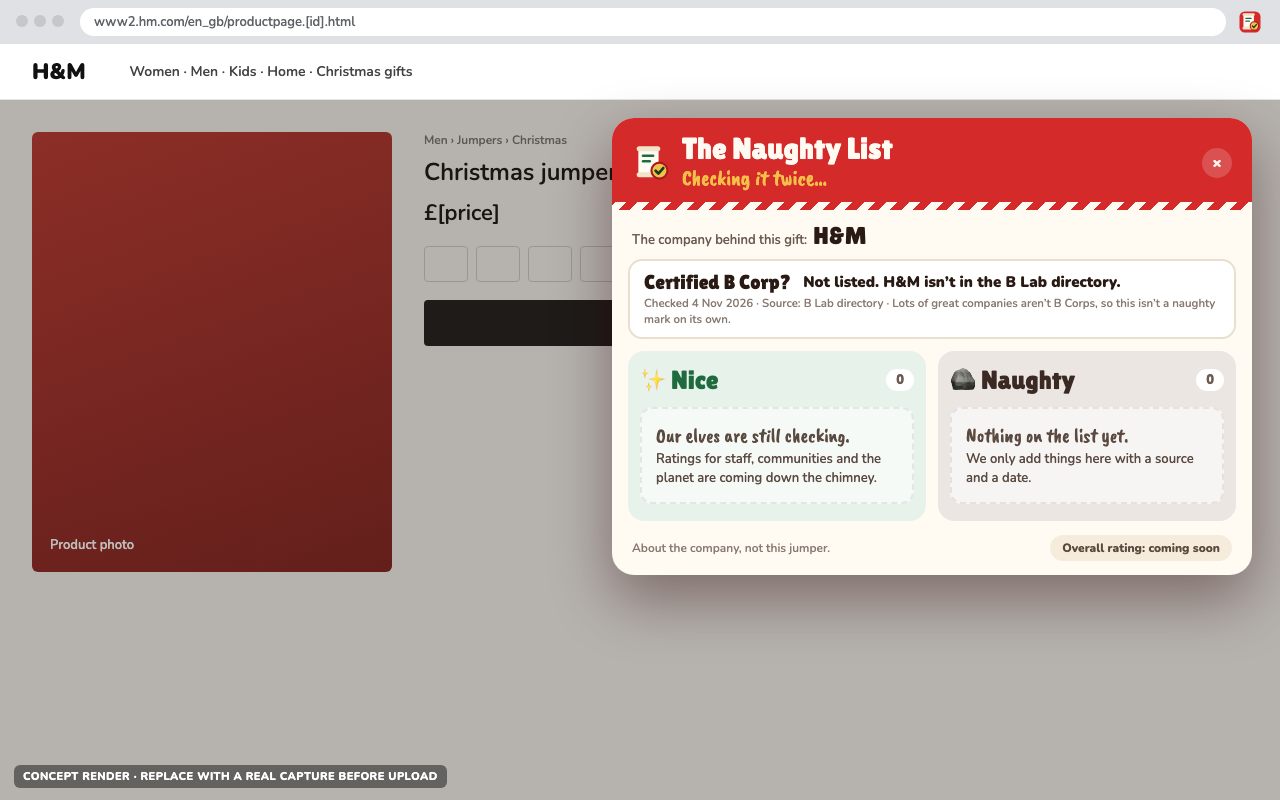
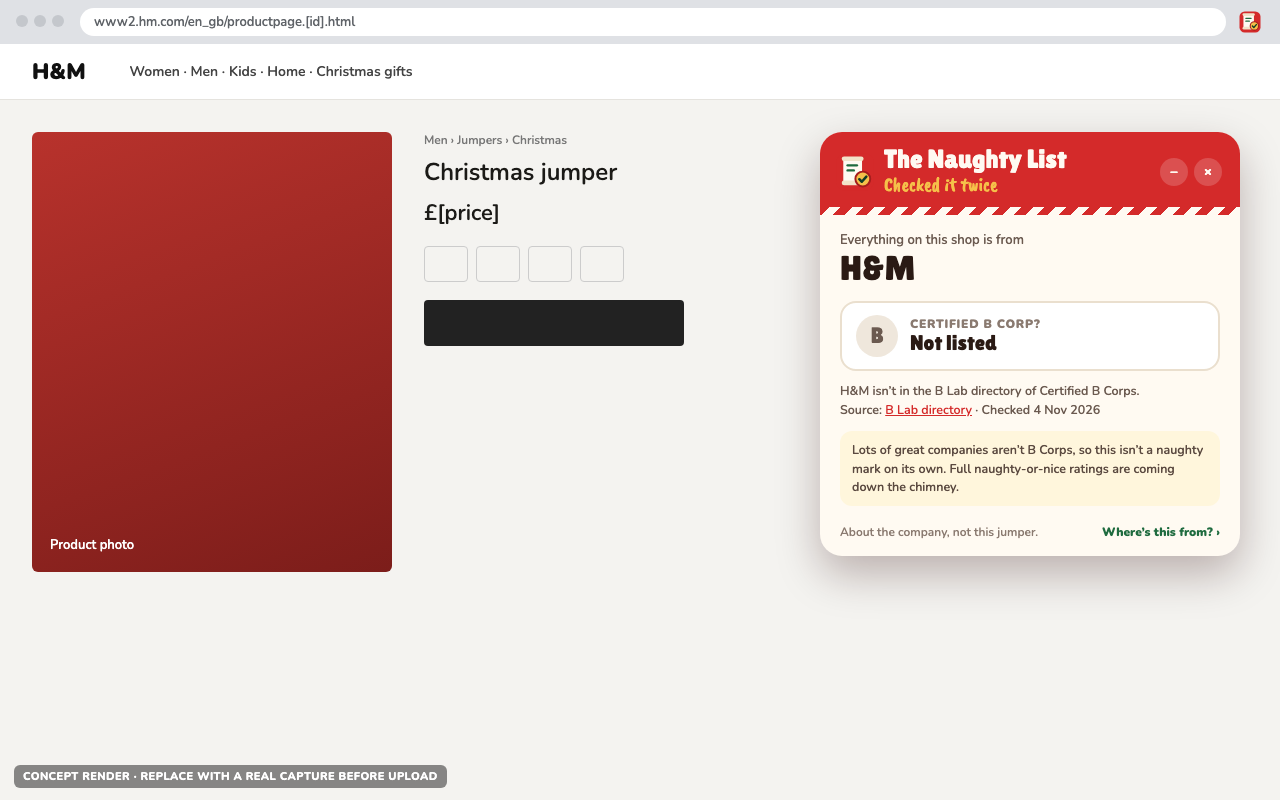
Launch assets: redraw H&M concept screenshots as a brand badge (card 158)
Lawrence's AGENTS.md update (bcfeaab) records the card 158 rule: single-brand
shops get a brand badge, not a Nice/Naughty split. Renders, overlay copy and
storyboard now follow that, using H&M's real B Corp result.

diff --git a/publishing/launch/src/overlay-screens.html b/publishing/launch/src/overlay-screens.html
@@ -1,7 +1,9 @@
 <!doctype html><html><head><meta charset="utf-8"><link rel="stylesheet" href="tiles.css">
-<!-- Concept render of the two-column Nice / Naughty overlay (Samira, 4 Nov). Lawrence owns the real UX; replace these with real captures once it exists.
-     Variants: ?v=1 overlay open (lead screenshot) · ?v=2 one item opened to show its source.
-     B Corp strip uses the real registry result (branch hm-registry, 4 Nov). Columns show empty states until scoring card 157 supplies findings. -->
+<!-- Concept render of the H&M brand badge. Card 158 (Lawrence, 4 Nov): single-brand shops like H&M get a brand badge, not a Nice/Naughty split,
+     because every product shares one company's evidence. The split is for multi-brand shops, later.
+     Lawrence owns the real UX; surface, trigger and placement are still open on card 158. Replace with real captures once it exists.
+     Variants: ?v=1 badge on the product page (lead screenshot) · ?v=2 badge opened to show where the result came from.
+     B Corp result is real: H&M not in the B Lab directory, checked 4 Nov 2026 (registry entry on branch hm-registry). -->
 <style>
 html,body{overflow:hidden}
 body{background:#f4f3f0;color:#1b1a17;font-family:"Nunito",sans-serif;font-weight:600}
@@ -11,48 +13,40 @@ body{background:#f4f3f0;color:#1b1a17;font-family:"Nunito",sans-serif;font-weigh
 .ext{width:28px;height:28px}
 .bar{height:56px;background:#fff;border-bottom:1px solid #e5e3de;display:flex;align-items:center;padding:0 32px;gap:28px;font-size:14px;color:#444}
 .bar b{font-size:22px;color:#111;margin-right:16px}
-.page{display:grid;grid-template-columns:360px 1fr;gap:32px;padding:32px}
-.img{height:440px;border-radius:6px;background:linear-gradient(160deg,#b8322c,#7c1d1a);display:flex;align-items:flex-end;padding:18px;color:#fff;font-size:13px;opacity:.95}
+.page{display:grid;grid-template-columns:360px 340px;gap:32px;padding:32px}
+.img{height:440px;border-radius:6px;background:linear-gradient(160deg,#b8322c,#7c1d1a);display:flex;align-items:flex-end;padding:18px;color:#fff;font-size:13px}
 .crumb{font-size:12px;color:#777;margin-bottom:8px}
 h2{font:600 24px "Nunito",sans-serif;margin-bottom:6px}
 .price{font-size:22px;margin:10px 0 18px}
 .sz{display:flex;gap:8px;margin-bottom:18px}.sz span{width:44px;height:36px;border:1px solid #ccc;border-radius:4px}
 .add{width:260px;height:46px;background:#222;border-radius:4px}
-.dim{position:absolute;inset:100px 0 0 0;background:rgba(20,10,5,.28)}
 
-.ol{position:absolute;top:118px;right:28px;width:640px;background:var(--snow);border-radius:22px;box-shadow:0 24px 60px rgba(40,0,0,.4);overflow:hidden}
-.hd{background:var(--red);color:var(--snow);padding:16px 20px 18px;display:flex;align-items:center;gap:12px;position:relative}
-.hd img{width:54px;height:54px;margin:-8px}
-.hd .t{font:30px "Lilita One",sans-serif;line-height:1}
-.hd .s{font:22px "Caveat Brush",cursive;color:var(--gold)}
-.hd .x{margin-left:auto;width:30px;height:30px;border-radius:50%;background:rgba(255,255,255,.18);display:grid;place-items:center;font-weight:900}
+/* the badge sits in the empty space beside the product details: it never covers price, sizes or add-to-bag */
+.badge{position:absolute;top:132px;left:820px;width:420px;background:var(--snow);border-radius:22px;box-shadow:0 18px 44px rgba(40,0,0,.28);overflow:hidden}
+.hd{background:var(--red);color:var(--snow);padding:14px 18px 18px;display:flex;align-items:center;gap:12px;position:relative}
+.hd img{width:50px;height:50px;margin:-8px}
+.hd .t{font:26px "Lilita One",sans-serif;line-height:1}
+.hd .s{font:20px "Caveat Brush",cursive;color:var(--gold)}
+.hd .x{margin-left:auto;display:flex;gap:6px}
+.hd .x i{width:28px;height:28px;border-radius:50%;background:rgba(255,255,255,.18);display:grid;place-items:center;font-style:normal;font-weight:900;font-size:14px}
 .hd::after{content:"";position:absolute;left:0;right:0;bottom:0;height:8px;background:repeating-linear-gradient(-45deg,var(--snow) 0 8px,var(--red) 8px 16px)}
-.brand{padding:12px 20px 0;font-size:13px;color:#6b5a50}
-.brand b{font:24px "Lilita One",sans-serif;color:#2a1a14;margin-left:6px}
-.bc{margin:10px 16px 0;background:#fff;border:2px solid #eadfce;border-radius:14px;padding:10px 14px;display:grid;grid-template-columns:auto 1fr;gap:2px 12px;align-items:center}
-.bc .q{font:20px "Lilita One",sans-serif;color:#2a1a14}
-.bc .a{font-weight:900;font-size:15px;color:#2a1a14}
-.bc .m{grid-column:1/-1;font-size:11.5px;color:#8a7a70}
-.empty{background:rgba(255,255,255,.6);border:2px dashed rgba(0,0,0,.08);border-radius:12px;padding:14px;font-size:13px;color:#5b4a40;line-height:1.45}
-.empty b{display:block;font:20px "Caveat Brush",cursive;color:inherit;margin-bottom:2px}
-.cols{display:grid;grid-template-columns:1fr 1fr;gap:12px;padding:12px 16px 4px}
-.col{border-radius:16px;padding:12px;min-height:170px}
-.nice{background:#e7f3ea}
-.naughty{background:#ece6e3}
-.ch{display:flex;align-items:center;gap:8px;font:26px "Lilita One",sans-serif;margin-bottom:10px}
-.nice .ch{color:var(--green)} .naughty .ch{color:#3b2a24}
-.ch .n{margin-left:auto;font:900 13px "Nunito",sans-serif;background:#fff;border-radius:99px;padding:2px 10px;color:#6b5a50}
-.it{background:#fff;border-radius:12px;padding:10px 12px;margin-bottom:8px;box-shadow:0 1px 0 rgba(0,0,0,.05)}
-.it .k{font-size:11px;font-weight:900;letter-spacing:.06em;text-transform:uppercase;color:#8a7a70}
-.it .f{font-size:14px;font-weight:800;margin:2px 0}
-.it .src{font-size:11.5px;color:#8a7a70}
-.ph{background:#fff1c2;color:#7a5a00;border-radius:4px;padding:0 4px}
-.it.open{outline:3px solid var(--gold)}
-.it .more{margin-top:8px;padding-top:8px;border-top:1px dashed #e3d8cc;font-size:12px;color:#5b4a40;line-height:1.5}
-.it .more u{color:var(--red)}
-.ft{display:flex;justify-content:space-between;align-items:center;padding:10px 20px 14px;font-size:12px;color:#8a7a70}
-.ft .v{background:var(--cream,#f6ecdc);border-radius:99px;padding:5px 12px;color:#5b4a40;font-weight:800}
+.body{padding:16px 20px 6px}
+.co{font-size:13px;color:#6b5a50}
+.co b{display:block;font:34px "Lilita One",sans-serif;color:#2a1a14;line-height:1.05;margin-top:2px}
+.state{margin-top:14px;display:flex;align-items:center;gap:12px;background:#fff;border:2px solid #eadfce;border-radius:16px;padding:12px 14px}
+.state .ic{flex:none;width:42px;height:42px;border-radius:50%;background:#efe7dc;display:grid;place-items:center;font:22px "Lilita One",sans-serif;color:#6b5a50}
+.state .q{font-size:12px;font-weight:900;letter-spacing:.06em;text-transform:uppercase;color:#8a7a70}
+.state .a{font:21px "Lilita One",sans-serif;color:#2a1a14;line-height:1.1}
+.meta{margin-top:10px;font-size:12.5px;color:#6b5a50;line-height:1.55}
+.meta u{color:var(--red)}
+.note{margin:12px 0 0;padding:10px 12px;background:#fff6dc;border-radius:12px;font-size:12.5px;color:#5b4a40;line-height:1.45}
+.more{margin-top:12px;padding-top:12px;border-top:2px dashed #eadfce;font-size:12.5px;color:#5b4a40;line-height:1.55;display:none}
+.more b{font:20px "Caveat Brush",cursive;color:var(--green);display:block}
+.ft{display:flex;justify-content:space-between;align-items:center;padding:12px 20px 16px;font-size:12px;color:#8a7a70}
+.ft a{color:var(--green);font-weight:900;text-decoration:none}
 .tag{position:absolute;left:14px;bottom:12px;font:800 11px "Nunito",sans-serif;color:#fff;background:rgba(0,0,0,.45);padding:4px 9px;border-radius:6px;letter-spacing:.04em}
+body.v2 .more{display:block}
+body.v2 .badge{top:118px}
 </style></head><body>
 <div class="chrome"><span class="dots"><i></i><i></i><i></i></span><div class="url">www2.hm.com/en_gb/productpage.[id].html</div><img class="ext" src="icon-festive.svg"></div>
 <div class="bar"><b>H&amp;M</b> Women · Men · Kids · Home · Christmas gifts</div>
@@ -60,30 +54,18 @@ h2{font:600 24px "Nunito",sans-serif;margin-bottom:6px}
   <div class="img">Product photo</div>
   <div><div class="crumb">Men › Jumpers › Christmas</div><h2>Christmas jumper</h2><div class="price">£[price]</div><div class="sz"><span></span><span></span><span></span><span></span></div><div class="add"></div></div>
 </div>
-<div class="dim"></div>
 
-<div class="ol">
-  <div class="hd"><img src="icon-festive.svg"><div><div class="t">The Naughty List</div><div class="s">Checking it twice…</div></div><div class="x">×</div></div>
-  <div class="brand">The company behind this gift:<b>H&amp;M</b></div>
-  <div class="bc" id="bc"><span class="q">Certified B Corp?</span><span class="a">Not listed. H&amp;M isn’t in the B Lab directory.</span><span class="m">Checked 4 Nov 2026 · Source: B Lab directory · Lots of great companies aren’t B Corps, so this isn’t a naughty mark on its own.</span></div>
-  <div class="cols">
-    <div class="col nice">
-      <div class="ch">✨ Nice <span class="n">0</span></div>
-      <div class="empty"><b>Our elves are still checking.</b>Ratings for staff, communities and the planet are coming down the chimney.</div>
-    </div>
-    <div class="col naughty">
-      <div class="ch">🪨 Naughty <span class="n">0</span></div>
-      <div class="empty"><b>Nothing on the list yet.</b>We only add things here with a source and a date.</div>
-    </div>
+<div class="badge">
+  <div class="hd"><img src="icon-festive.svg"><div><div class="t">The Naughty List</div><div class="s">Checked it twice</div></div><div class="x"><i>–</i><i>×</i></div></div>
+  <div class="body">
+    <div class="co">Everything on this shop is from<b>H&amp;M</b></div>
+    <div class="state"><div class="ic">B</div><div><div class="q">Certified B Corp?</div><div class="a">Not listed</div></div></div>
+    <div class="meta">H&amp;M isn’t in the B Lab directory of Certified B Corps.<br>Source: <u>B Lab directory</u> · Checked 4 Nov 2026</div>
+    <div class="note">Lots of great companies aren’t B Corps, so this isn’t a naughty mark on its own. Full naughty-or-nice ratings are coming down the chimney.</div>
+    <div class="more"><b>Where this came from</b>We searched the B Lab directory for “H&amp;M”, “H&amp;M Group” and “Hennes &amp; Mauritz” on 4 Nov 2026 and found no listing. We’ll check again by 4 Dec 2026.<br><u style="color:var(--red)">bcorporation.net/find-a-b-corp</u></div>
   </div>
-  <div class="ft"><span>About the company, not this jumper.</span><span class="v">Overall rating: coming soon</span></div>
+  <div class="ft"><span>About the company, not this jumper.</span><a>Where’s this from? ›</a></div>
 </div>
 <div class="tag">CONCEPT RENDER · REPLACE WITH A REAL CAPTURE BEFORE UPLOAD</div>
-<script>
-if(new URLSearchParams(location.search).get('v')==='2'){
-  const b=document.getElementById('bc');b.style.outline='3px solid var(--gold)';
-  b.insertAdjacentHTML('beforeend','<div class="m" style="border-top:1px dashed #e3d8cc;padding-top:8px;margin-top:6px;color:#5b4a40;font-size:12.5px;line-height:1.55"><b>Where this came from</b><br>We searched the B Lab directory for “H&amp;M”, “H&amp;M Group” and “Hennes &amp; Mauritz” on 4 Nov 2026: no listing.<br><u style="color:var(--red)">bcorporation.net/find-a-b-corp</u> · We’ll check again by 4 Dec 2026.</div>');
-  document.querySelector('.s').textContent='Here’s where that came from';
-}
-</script>
+<script>if(new URLSearchParams(location.search).get('v')==='2'){document.body.classList.add('v2');document.querySelector('.ft a').textContent='Hide details ‹'}</script>
 </body></html>

diff --git a/publishing/launch/copy.md b/publishing/launch/copy.md
@@ -9,7 +9,7 @@ Drafted 4 November 2026 for Superthread card 156. For Samira to review. Nothing 
 - Icon: the festive icon in `store/` (red tile, Santa's scroll, gold "checked" badge). Replaced the 40(40) navy one after Ben's steer to go more Christmassy
 - Scope: **one brand, H&M**, on H&M's own shop (hm.com)
 - Chrome developer account: **Ben owns it**, published as 40 for 40 (the company)
-- **Ship with B Corp only** (Samira, 4 Nov 15:10): launch now with H&M's B Corp result and empty Nice / Naughty columns; don't wait for scoring card 157
+- **Ship with B Corp only** (Samira, 4 Nov 15:10): launch now with H&M's B Corp result on the brand badge; don't wait for scoring card 157
 
 Every `[square bracket]` is something the build still has to confirm before this goes live.
 
@@ -22,20 +22,17 @@ Every `[square bracket]` is something the build still has to confirm before this
 
 So the honest message today is: *H&M isn't a Certified B Corp, here's the source and date, and that's one fact, not a verdict.* Copy must never turn "not a B Corp" into "naughty" (most companies aren't B Corps).
 
-## What the overlay says on H&M today
+## What the H&M badge says today
 
-For Lawrence's Nice / Naughty overlay. The B Corp result sits above the two columns as a neutral fact, not inside either column.
+Card 158 (Lawrence, 4 Nov): single-brand shops like H&M get a **brand badge**, not a Nice / Naughty split, because every product shares one company's evidence. The split (Nice, Naughty, Unknown) is for multi-brand shops later. Surface, trigger and placement are still open on card 158.
 
-- **Header:** The Naughty List · *Checking it twice…*
-- **Company line:** The company behind this gift: **H&M**
-- **B Corp strip:** **Certified B Corp?** Not listed. H&M isn't in the B Lab directory of Certified B Corps. *Checked 4 Nov 2026 · Source: B Lab directory*
-- **Strip helper text (small):** Lots of great companies aren't B Corps, so this isn't a naughty mark on its own.
-- **Nice column, empty state:** *Our elves are still checking.* Ratings for staff, communities and the planet are coming down the chimney.
-- **Naughty column, empty state:** *Nothing on the list yet.* We only add things here with a source and a date.
+- **Header:** The Naughty List · *Checked it twice*
+- **Company line:** Everything on this shop is from **H&M**
+- **State:** Certified B Corp? **Not listed**
+- **Detail:** H&M isn't in the B Lab directory of Certified B Corps. Source: B Lab directory · Checked 4 Nov 2026
+- **Note:** Lots of great companies aren't B Corps, so this isn't a naughty mark on its own. Full naughty-or-nice ratings are coming down the chimney.
+- **Where this came from (expanded):** We searched the B Lab directory for "H&M", "H&M Group" and "Hennes & Mauritz" on 4 Nov 2026 and found no listing. We'll check again by 4 Dec 2026.
 - **Footer:** About the company, not this jumper.
-
-
----
 
 ## Voice
 

diff --git a/publishing/launch/README.md b/publishing/launch/README.md
@@ -10,7 +10,7 @@ This adds to Ben's `publishing/` prep on main and doesn't replace it. His icons 
 | `store/promo-small-440x280.png` | Chrome small promo tile | Ready to review |
 | `store/marquee-1400x560.png` | Chrome marquee tile (optional) | Ready to review |
 | `store/screenshot-5-title-card-1280x800.png` | Title-card screenshot. Upload it as the last screenshot, never the first | Ready to review |
-| `store/screenshot-1-overlay-CONCEPT-1280x800.png`, `store/screenshot-2-sources-CONCEPT-1280x800.png` | Concept renders of the two-column **Nice / Naughty** overlay on an H&M product page (lead screenshot, then one item opened to show its source). Every finding, count and the overall verdict is a [bracket]. Source: `src/overlay-screens.html` (`?v=1`, `?v=2`) | **Not for upload.** Lawrence owns the real overlay UX; replace with real captures once it exists |
+| `store/screenshot-1-overlay-CONCEPT-1280x800.png`, `store/screenshot-2-sources-CONCEPT-1280x800.png` | Concept renders of the **H&M brand badge** (card 158: single-brand shops get a badge, not the Nice / Naughty split), with H&M's real B Corp result, then the badge opened to show its source. Source: `src/overlay-screens.html` (`?v=1`, `?v=2`) | **Not for upload.** Lawrence owns the real overlay UX; replace with real captures once it exists |
 | `copy.md` | Store listing, privacy tab answers, Firefox notes, privacy notice, publisher setup | Decisions applied (H&M only, help@build40for40.com); a few [brackets] left for the build |
 | `site/download.html` | Download page draft for build40for40.com, standalone. Open it in a browser | Port to `site/src/pages/naughty-list.astro` once approved |
 | `video/storyboard.md` | 40s demo shot list and voice-over, the shorts cut, and the real-screenshot list | Record once the overlay works |
